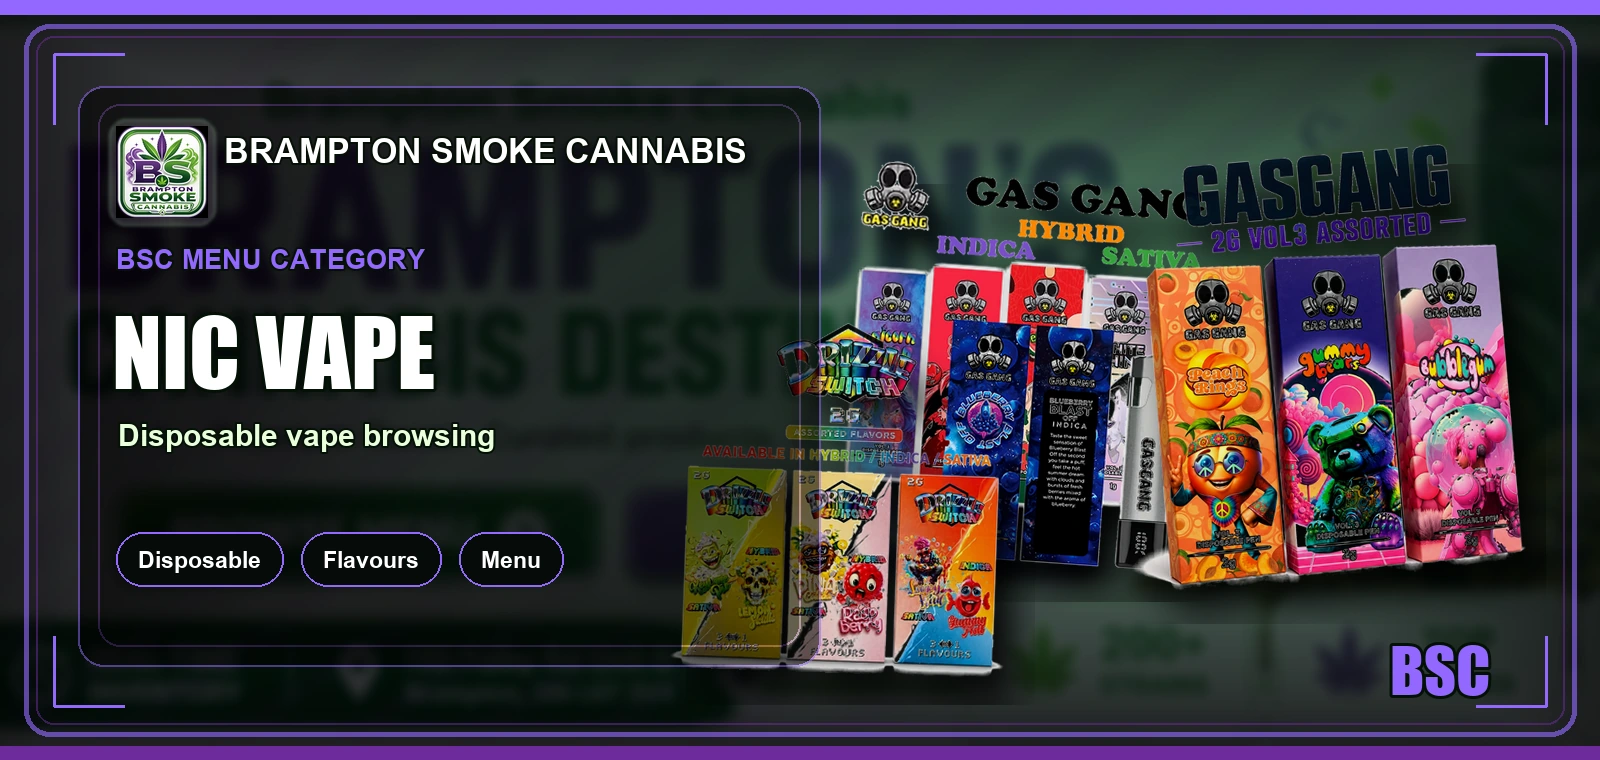
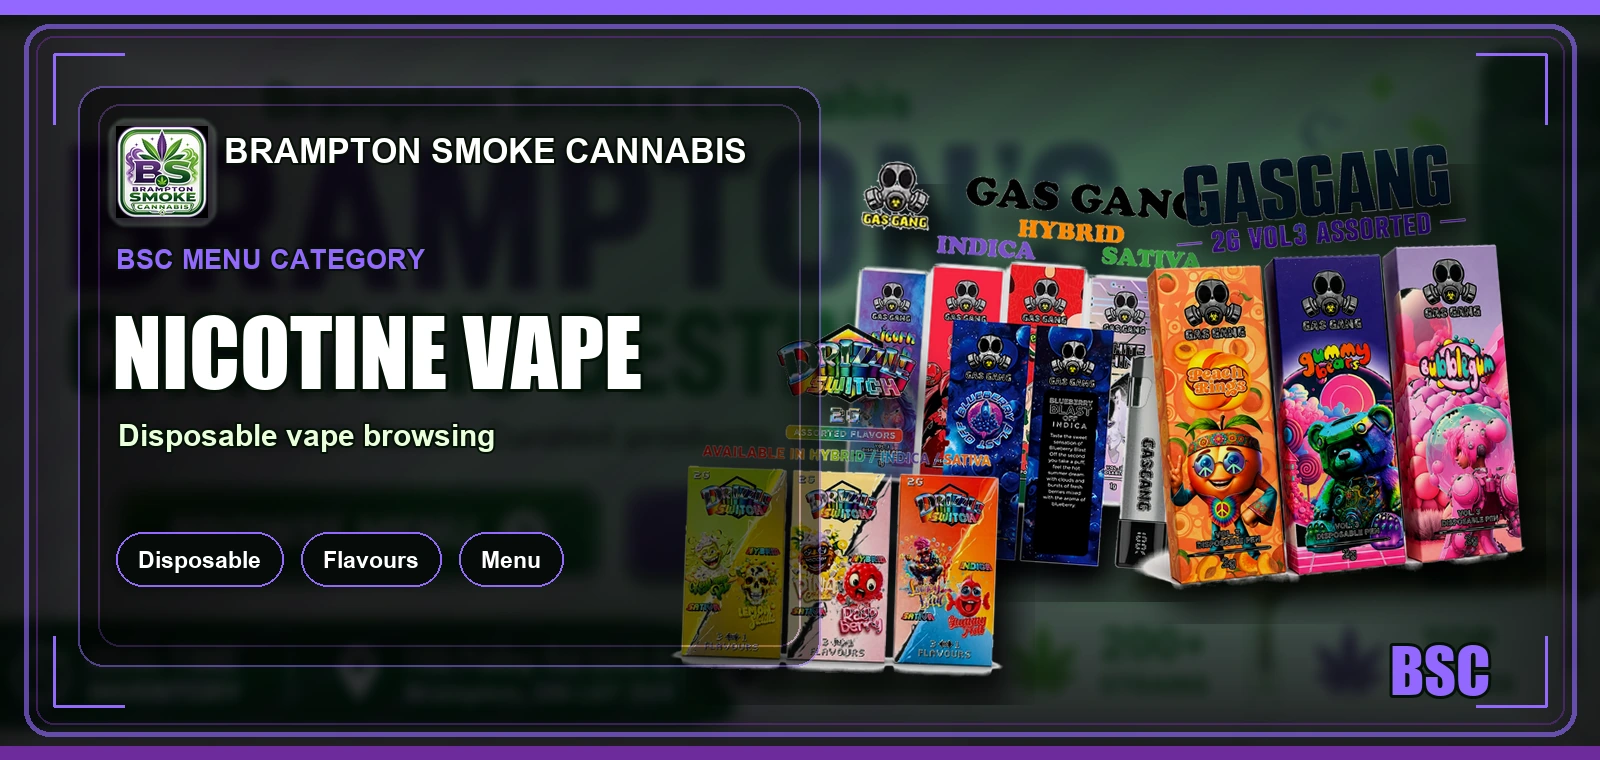
BSC01: add Weed Delivery owner and full Nicotine Vape labels (#33)
Tri explicitly approved the existing DeliveryContent Apps Script, email, external catalog, ID-verification, ordering, loyalty, price and availability functionality for production deployment.

Changed region(s): [[0.125, 0.3934, 0.4062, 0.5145]]

diff --git a/app/delivery/DeliveryContent.tsx b/app/delivery/DeliveryContent.tsx
@@ -1,6 +1,7 @@
 "use client";
 
 import Image from "next/image";
+import Link from "next/link";
 import { useEffect, useMemo, useState } from "react";
 import Navbar from "../components/Navbar";
 import Footer from "../components/Footer";
@@ -17,6 +18,13 @@ type Filter = "ALL" | Tier;
 const fallbackProducts = menu.products as Product[];
 const filters: Filter[] = ["ALL", "Exotics", "CRAFTS", "BC Premium", "Budget", "SHREDS"];
 const tierOrder: Tier[] = ["Exotics", "CRAFTS", "BC Premium", "Budget", "SHREDS"];
+const tierDisplayLabels: Record<Tier, string> = {
+  Exotics: "Exotic Weed & Flower",
+  CRAFTS: "Craft Weed & Flower",
+  "BC Premium": "BC Premium Weed & Flower",
+  Budget: "Budget Weed & Flower",
+  SHREDS: "Shreds Weed & Flower",
+};
 
 function entryPrice(product: Product) {
   return Math.min(...product.priceOptions.map((option) => option.price));
@@ -106,7 +114,7 @@ export default function DeliveryContent() {
   return <main className={styles.main}>
     <Navbar />
     <section className={`${styles.hero} ${styles.heroPlain}`}>
-      <div><p>Brampton Smoke Cannabis</p><h1>Delivery Menu</h1><span>Browse the shared product catalog. The store confirms current availability and delivery details before an order is accepted.</span></div>
+      <div><p>Brampton Smoke Cannabis</p><h1>Weed Delivery in Brampton</h1><span>Browse the Brampton Smoke Cannabis weed and flower delivery menu. Compare listed products, weights and prices, then confirm current availability and delivery details with the dispatcher before an order is accepted.</span></div>
     </section>
     <section className={styles.deliveryDetails} aria-label="Brampton Smoke Cannabis delivery details">
       <strong>$60 PRODUCT MINIMUM</strong>
@@ -123,7 +131,7 @@ export default function DeliveryContent() {
       <aside><strong>Important conditions</strong><p>Complimentary items apply only to regular-price Craft or Exotic ounces—not BC Premium. Loyalty prices are firm and cannot be reduced with points. Loyalty-price orders do not include extra complimentary items. The dispatcher confirms current eligibility and any included item before checkout.</p></aside>
     </section>
     <section className={styles.howToOrder} aria-labelledby="how-to-order-title">
-      <div><p>HOW TO ORDER</p><h2 id="how-to-order-title">Order with the Brampton Smoke Cannabis dispatcher</h2><span>LIVE ORDER connects you with the Brampton Smoke Cannabis dispatcher.</span></div>
+      <div><p>HOW TO ORDER</p><h2 id="how-to-order-title">How to Order Weed Delivery in Brampton</h2><span>LIVE ORDER connects you with the Brampton Smoke Cannabis dispatcher.</span></div>
       <ol>
         <li><strong>Browse the delivery menu</strong><span>Note the product names and weights you want.</span></li>
         <li><strong>Select LIVE ORDER</strong><span>Open Web Chat at the bottom-right and send your choices.</span></li>
@@ -132,9 +140,9 @@ export default function DeliveryContent() {
       </ol>
     </section>
     <section className={styles.catalogShell}>
-      <aside className={styles.filters}><h2>Flower tiers</h2>{filters.map((tier) => <button type="button" key={tier} className={filter === tier ? styles.active : ""} onClick={() => setFilter(tier)}>{tier}<span>{tier === "ALL" ? products.length : products.filter((product) => product.tier === tier).length}</span></button>)}</aside>
+      <aside className={styles.filters}><h2>Weed &amp; Flower Delivery Tiers</h2>{filters.map((tier) => <button type="button" key={tier} className={filter === tier ? styles.active : ""} onClick={() => setFilter(tier)}>{tier}<span>{tier === "ALL" ? products.length : products.filter((product) => product.tier === tier).length}</span></button>)}</aside>
       <div className={styles.catalog}>
-        <header className={styles.tools}><div><p>DELIVERY CATALOG</p><h2>{filter === "ALL" ? "All products" : filter}</h2><span>{visible.length} products</span></div><label><span>Search products</span><input type="search" value={search} onChange={(event) => setSearch(event.target.value)} placeholder="Product or strain" /></label></header>
+        <header className={styles.tools}><div><p>DELIVERY CATALOG</p><h2>{filter === "ALL" ? "All Weed & Flower Products" : tierDisplayLabels[filter]}</h2><span>{visible.length} products</span></div><label><span>Search products</span><input type="search" value={search} onChange={(event) => setSearch(event.target.value)} placeholder="Product or strain" /></label></header>
         <div className={styles.mobileFilters}>{filters.map((tier) => <button type="button" key={tier} className={filter === tier ? styles.active : ""} onClick={() => setFilter(tier)}>{tier}</button>)}</div>
         <div className={styles.grid}>{visible.map((product) => <article className={styles.card} key={product.publicProductId}>
           <button type="button" className={styles.imageButton} onClick={() => setSelected(product)} aria-label={`View details for ${product.name}`}>
@@ -150,8 +158,10 @@ export default function DeliveryContent() {
       {emailStatus === "success" && <p role="status">You&apos;re on the delivery update list.</p>}
     </section>
     <div className={styles.ctaSection}><p>Visit us in-store at <strong>132 Falby Rd Unit B, Brampton</strong> — open <strong>24 hours</strong>. Use the current menu and resources before visiting.</p></div>
+    <div className={styles.ctaSection}><p>Looking for store information beyond delivery? Visit Brampton Smoke Cannabis for <Link href="/weed-dispensary-brampton/">Weed in Brampton</Link>.</p></div>
     {selected && <div className={styles.backdrop} onMouseDown={(event) => { if (event.target === event.currentTarget) setSelected(null); }}><section className={styles.drawer} role="dialog" aria-modal="true" aria-labelledby="product-title"><header><strong>Product details</strong><button type="button" onClick={() => setSelected(null)} aria-label="Close product details">×</button></header><div className={styles.drawerContent}>{selected.images.map((src, index) => <div className={styles.drawerImage} key={src}><Image src={src} alt={`${selected.name}${index ? ` alternate ${index + 1}` : ""}`} fill sizes="(max-width: 720px) 100vw, 420px" unoptimized /></div>)}<h2 id="product-title">{selected.name}</h2><p>{selected.description || "Ask the store for current product details."}</p>{selected.effects.length > 0 && <div className={styles.effects}>{selected.effects.map((effect) => <span key={effect}>{effect}</span>)}</div>}<ProductPricing product={selected} /></div></section></div>}
     <BSCWebChat />
     <Footer />
   </main>;
 }
+

diff --git a/tests/weed-delivery-brampton.test.ts b/tests/weed-delivery-brampton.test.ts
@@ -1,0 +1,59 @@
+import assert from "node:assert/strict";
+import fs from "node:fs";
+import path from "node:path";
+import test from "node:test";
+
+const root = process.cwd();
+const read = (file: string) => fs.readFileSync(path.join(root, file), "utf8");
+
+test("weed delivery route owns Brampton delivery intent", () => {
+  const page = read("app/weed-delivery-brampton/page.tsx");
+
+  assert.match(page, /Weed Delivery Brampton \| Brampton Smoke Cannabis/);
+  assert.match(page, /title: \{ absolute: title \}/);
+  assert.match(page, /weed-delivery-brampton/);
+  assert.match(page, /Weed Delivery in Brampton/);
+  assert.match(page, /openGraph:/);
+  assert.match(page, /twitter:/);
+});
+
+test("legacy delivery route permanently migrates to the Weed delivery owner", () => {
+  const config = read("next.config.ts");
+  const legacy = read("app/delivery/page.tsx");
+
+  assert.match(config, /source: "\/delivery", destination: "\/weed-delivery-brampton", statusCode: 301/);
+  assert.match(legacy, /permanentRedirect\("\/weed-delivery-brampton"\)/);
+});
+
+test("delivery content uses approved Weed and flower tier labels", () => {
+  const content = read("app/delivery/DeliveryContent.tsx");
+
+  for (const phrase of [
+    "Weed Delivery in Brampton",
+    "How to Order Weed Delivery in Brampton",
+    "Weed &amp; Flower Delivery Tiers",
+    "All Weed & Flower Products",
+    "Exotic Weed & Flower",
+    "Craft Weed & Flower",
+    "BC Premium Weed & Flower",
+    "Budget Weed & Flower",
+    "Shreds Weed & Flower",
+  ]) assert.ok(content.includes(phrase), `Missing approved phrase: ${phrase}`);
+
+  assert.match(content, /href="\/weed-dispensary-brampton\/"/);
+  assert.doesNotMatch(content, /guaranteed delivery|same-day delivery|delivery radius/i);
+});
+
+test("all primary internal delivery references point to the canonical route", () => {
+  for (const file of ["app/layout.tsx", "app/components/Navbar.tsx", "app/components/Footer.tsx", "app/sitemap.ts"]) {
+    const source = read(file);
+    assert.ok(source.includes("/weed-delivery-brampton"), `${file} is missing the canonical delivery route`);
+    assert.doesNotMatch(source, /href="\/delivery"|`\$\{BASE\}\/delivery`/);
+  }
+});
+
+test("announcement names the Weed delivery menu", () => {
+  const layout = read("app/layout.tsx");
+  assert.match(layout, /NEW WEED DELIVERY MENU IS HERE — CLICK TO EXPLORE/);
+});
+

diff --git a/app/weed-delivery-brampton/page.tsx b/app/weed-delivery-brampton/page.tsx
@@ -1,0 +1,54 @@
+import type { Metadata } from "next";
+import DeliveryContent from "../delivery/DeliveryContent";
+import menu from "../delivery/delivery-menu.json";
+
+const title = "Weed Delivery Brampton | Brampton Smoke Cannabis";
+const description = "Browse the Brampton Smoke Cannabis weed delivery menu in Brampton. Compare listed flower, products, weights and prices, then confirm availability and delivery details before acceptance.";
+const canonical = "https://www.bramptonsmokecannabis.com/weed-delivery-brampton";
+
+export const metadata: Metadata = {
+  title: { absolute: title },
+  description,
+  alternates: { canonical },
+  openGraph: {
+    type: "website",
+    title,
+    description,
+    url: canonical,
+  },
+  twitter: {
+    card: "summary_large_image",
+    title,
+    description,
+  },
+};
+
+export default function WeedDeliveryBramptonPage() {
+  const structuredData = {
+    "@context": "https://schema.org",
+    "@type": "CollectionPage",
+    name: "Weed Delivery in Brampton",
+    description,
+    url: canonical,
+    mainEntity: {
+      "@type": "ItemList",
+      numberOfItems: menu.products.length,
+      itemListElement: menu.products.map((product, index) => ({
+        "@type": "ListItem",
+        position: index + 1,
+        name: product.name,
+      })),
+    },
+  };
+
+  return (
+    <>
+      <script
+        type="application/ld+json"
+        dangerouslySetInnerHTML={{ __html: JSON.stringify(structuredData).replace(/</g, "\\u003c") }}
+      />
+      <DeliveryContent />
+    </>
+  );
+}
+

diff --git a/app/delivery/page.tsx b/app/delivery/page.tsx
@@ -1,14 +1,6 @@
-import type { Metadata } from "next";
-import DeliveryContent from "./DeliveryContent";
-import menu from "./delivery-menu.json";
-
-export const metadata: Metadata = {
-  title: "Delivery Menu | Brampton Smoke Cannabis",
-  description: "Browse the Brampton Smoke Cannabis delivery product catalog and compare flower tiers and prices.",
-  alternates: { canonical: "https://www.bramptonsmokecannabis.com/delivery" },
-};
+import { permanentRedirect } from "next/navigation";
 
 export default function DeliveryPage() {
-  const structuredData = { "@context": "https://schema.org", "@type": "CollectionPage", name: "Brampton Smoke Cannabis Delivery Menu", url: "https://www.bramptonsmokecannabis.com/delivery", mainEntity: { "@type": "ItemList", numberOfItems: menu.products.length, itemListElement: menu.products.map((product, index) => ({ "@type": "ListItem", position: index + 1, name: product.name })) } };
-  return <><script type="application/ld+json" dangerouslySetInnerHTML={{ __html: JSON.stringify(structuredData).replace(/</g, "\\u003c") }} /><DeliveryContent /></>;
+  permanentRedirect("/weed-delivery-brampton");
 }
+

diff --git a/tests/nicotine-vape-labels.test.ts b/tests/nicotine-vape-labels.test.ts
@@ -1,0 +1,26 @@
+import assert from "node:assert/strict";
+import fs from "node:fs";
+import path from "node:path";
+import test from "node:test";
+
+const root = process.cwd();
+const read = (file: string) => fs.readFileSync(path.join(root, file), "utf8");
+
+test("public nicotine vape category labels use the full keyword", () => {
+  const navbar = read("app/components/Navbar.tsx");
+  const products = read("app/lib/products.ts");
+  const assetGenerator = read("scripts/generate-bsc-real-assets.py");
+
+  assert.match(navbar, /href: "\/items\/vapes", label: "Nicotine Vape"/);
+  assert.match(products, /name: "Nicotine Vape",\s*slug: "vapes"/);
+  assert.match(assetGenerator, /\("nic-vape", "NICOTINE VAPE"/);
+  assert.doesNotMatch(`${navbar}\n${products}\n${assetGenerator}`, /["']NIC VAPE["']|["']Nic Vape["']/);
+});
+
+test("nicotine and THC vape category routes remain distinct", () => {
+  const navbar = read("app/components/Navbar.tsx");
+
+  assert.match(navbar, /href: "\/items\/vapes", label: "Nicotine Vape"/);
+  assert.match(navbar, /href: "\/items\/vape-disposables", label: "THC Vape"/);
+});
+

diff --git a/app/components/Navbar.tsx b/app/components/Navbar.tsx
@@ -13,13 +13,13 @@ const ALL_LINKS = [
   { href: "/budget", label: "Budget" },
   { href: "/items/edibles", label: "Edibles" },
   { href: "/items/prerolls", label: "Pre-Rolls" },
-  { href: "/items/vapes", label: "Nic Vape" },
+  { href: "/items/vapes", label: "Nicotine Vape" },
   { href: "/items/vape-disposables", label: "THC Vape" },
   { href: "/items/concentrates", label: "Concentrates" },
   { href: "/items/magic", label: "Magic Stuff" },
   { href: "/items/cigarettes", label: "Cigarettes" },
   { href: "/items/add-ons", label: "Accessories" },
-  { href: "/delivery", label: "🚗 Delivery" },
+  { href: "/weed-delivery-brampton", label: "🚗 Weed Delivery" },
   { href: "/careers/budtender", label: "Join Team", featured: true },
   { href: "/faq", label: "FAQ" },
   { href: "/resources", label: "Resources" },
@@ -81,3 +81,4 @@ export default function Navbar() {
     </nav>
   );
 }
+

diff --git a/app/sitemap.ts b/app/sitemap.ts
@@ -13,7 +13,7 @@ export default function sitemap(): MetadataRoute.Sitemap {
     { url: `${BASE}/weed-dispensary-brampton/`, lastModified: now, changeFrequency: "weekly", priority: 0.9 },
     { url: `${BASE}/contact`, lastModified: now, changeFrequency: "monthly", priority: 0.6 },
     { url: `${BASE}/faq`, lastModified: now, changeFrequency: "monthly", priority: 0.7 },
-    { url: `${BASE}/delivery`, lastModified: now, changeFrequency: "monthly", priority: 0.6 },
+    { url: `${BASE}/weed-delivery-brampton`, lastModified: now, changeFrequency: "daily", priority: 0.9 },
   { url: `${BASE}/careers/budtender`, lastModified: now, changeFrequency: "monthly", priority: 0.65 },
   ];
 

diff --git a/app/components/Footer.tsx b/app/components/Footer.tsx
@@ -57,7 +57,7 @@ export default function Footer() {
 <Link href="/items/vapes">Nicotine Vapes</Link>
               <Link href="/resources">Resources</Link>
               <Link href="/faq">FAQ</Link>
-              <Link href="/delivery">Delivery (Coming Soon)</Link>
+              <Link href="/weed-delivery-brampton">Weed Delivery Brampton</Link>
               <Link href="/info/brampton-weed-dispensary">Brampton Dispensary</Link>
               <Link href="/info/cheap-weed-brampton">Cheap Weed Brampton</Link>
 <Link href="/info/native-cigarettes-brampton">Native Cigarettes</Link>
@@ -79,3 +79,4 @@ export default function Footer() {
     </footer>
   );
 }
+

diff --git a/app/layout.tsx b/app/layout.tsx
@@ -143,8 +143,8 @@ export default function RootLayout({
         />
       </head>
       <body>
-        <Link className="deliveryAnnouncement" href="/delivery">
-          NEW DELIVERY MENU IS HERE — CLICK TO EXPLORE
+        <Link className="deliveryAnnouncement" href="/weed-delivery-brampton">
+          NEW WEED DELIVERY MENU IS HERE — CLICK TO EXPLORE
         </Link>
         {children}
         <AgeGate />
@@ -152,3 +152,4 @@ export default function RootLayout({
     </html>
   );
 }
+

diff --git a/next.config.ts b/next.config.ts
@@ -12,6 +12,7 @@ const nextConfig: NextConfig = {
   },
   async redirects() {
     return [
+      { source: "/delivery", destination: "/weed-delivery-brampton", statusCode: 301 },
       { source: "/blog", destination: "/resources", permanent: true },
       { source: "/blog/:path*", destination: "/resources", permanent: true },
       { source: "/edibles", destination: "/items/edibles", permanent: true },
@@ -32,3 +33,4 @@ const nextConfig: NextConfig = {
 };
 
 export default nextConfig;
+

diff --git a/app/lib/products.ts b/app/lib/products.ts
@@ -170,7 +170,7 @@ export const CATEGORY_CONFIG: Record<string, CategoryInfo> = {
   },
   "VAPE PENS": {
     banner: "/banners/bsc-real/category-nic-vape.webp",
-    name: "Nic Vape",
+    name: "Nicotine Vape",
     slug: "vapes",
     color: "#8b5cf6",
     icon: "NV",
@@ -304,3 +304,4 @@ export function formatPrice(p: PricePoint | null): string {
   if (p.sale !== null) return `$${p.sale}`;
   return `$${p.regular}`;
 }
+

diff --git a/scripts/generate-bsc-real-assets.py b/scripts/generate-bsc-real-assets.py
@@ -441,7 +441,7 @@ TIER_ASSETS = [
 CATEGORY_ASSETS = [
     ("edibles", "EDIBLES", "Gummies, chocolates and drinks", ["Gummies", "Chocolate", "Menu"], (255, 128, 42), records_for_category("EDIBLES")),
     ("thc-vape", "THC VAPE", "Vape menu categories", ["Carts", "Pens", "Menu"], PURPLE_LIGHT, records_for_category("VAPE PENS")),
-    ("nic-vape", "NIC VAPE", "Disposable vape browsing", ["Disposable", "Flavours", "Menu"], (146, 104, 255), records_for_category("VAPE DISPOSABLE")),
+    ("nic-vape", "NICOTINE VAPE", "Disposable vape browsing", ["Disposable", "Flavours", "Menu"], (146, 104, 255), records_for_category("VAPE DISPOSABLE")),
     ("concentrates", "CONCENTRATES", "Hash, resin and extracts", ["Hash", "Resin", "Extracts"], GOLD, records_for_category("CONCENTRATES")),
     ("prerolls", "PRE-ROLLS", "Ready-to-go pre-roll picks", ["Singles", "Packs", "Pre-rolls"], GREEN, records_for_category("PREROLLS")),
     ("accessories", "ACCESSORIES", "Smoke-shop essentials", ["Papers", "Tools", "Add-ons"], (85, 230, 205), records_for_category("ACCESSORIES")),
@@ -491,3 +491,4 @@ def main() -> None:
 
 if __name__ == "__main__":
     main()
+
